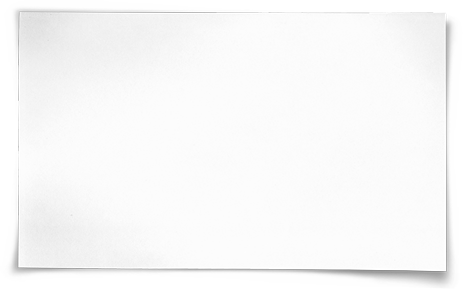
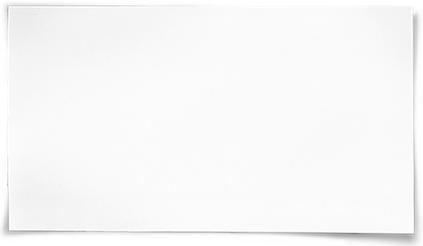
Adding white border to flyers.

Changed region(s): [[0.0, 0.0569, 1.0, 0.9959], [0.0, 0.0, 0.461, 0.1138]]

diff --git a/public/javascripts/bemtevi/template-canvas.js b/public/javascripts/bemtevi/template-canvas.js
@@ -55,7 +55,7 @@ function drawTemplateAndOverlays(template, templateContainer, canvasContainer) {
     var templateType = template.template_type;
     var width = templateType == "summary" ? 393 : 423;
     var height = templateType == "summary" ? 216 : 695;
-    var canvas = $('<canvas width="' + (width + 10) + '" height="' + (height + 10) + '" />');
+    var canvas = $('<canvas width="' + width + '" height="' + height + '" />');
     canvasContainer.append(canvas);
     var templateElementsContainer = $('<div class="template-elements-container">');
     canvasContainer.append(templateElementsContainer);
@@ -67,14 +67,7 @@ function drawTemplateAndOverlays(template, templateContainer, canvasContainer) {
 
     // Draws the template background over the canvas.
     var backgroundNode = $(templateContainer).find("[class|=template-background]")[0];
-    ctx.shadowColor = "#999";
-    ctx.shadowBlur = 5;
-    ctx.shadowOffsetX = 5;
-    ctx.shadowOffsetY = 5;
     ctx.drawImage(backgroundNode, 0, 0, backgroundNode.width, backgroundNode.height);
-    ctx.shadowBlur = 0;
-    ctx.shadowOffsetX = 0;
-    ctx.shadowOffsetY = 0;
 
     // Loops through the template overlays to draw tem over the background.
     var overlays = template.overlays;
@@ -92,7 +85,24 @@ function drawTemplateAndOverlays(template, templateContainer, canvasContainer) {
             drawImageOverlay(overlay, ctx, templateElementsContainer, template, templateContainer, canvasContainer);
         }
     }
-
+    
+    // Draws the flyer canvas over the withe leaf for the flyer.
+    var leaf = $(templateContainer).children("img")[0];
+    var finalCanvas = $('<canvas width="' + (width + 30) + '" height="' + (height + 30) + '" />');
+    canvasContainer.append(finalCanvas);
+    var finalCanvasNode = finalCanvas[0];
+    var finalCtx = finalCanvasNode.getContext("2d");
+    finalCtx.globalCompositeOperation = "source-over";
+    
+    // Draws the template background over the canvas.
+    var offX = templateType == "summary" ? 14 : 12;
+    var offY = templateType == "summary" ? 10 : 15;
+    var leafNode = $(templateContainer).children("img")[0];
+    finalCtx.drawImage(leafNode, 0, 0, leafNode.width, leafNode.height);
+    finalCtx.drawImage(canvasNode, offX, offY, canvasNode.width, canvasNode.height);
+    
+    // Remove the flyer, as we have the flyer over the white leaf now.
+    $(canvas).remove();
 }
 
 function drawImageOverlay(overlay, outCanvasContext, templateElementsContainer, template, templateContainer, canvasContainer) {

diff --git a/public/stylesheets/bemtevi/create-template.css b/public/stylesheets/bemtevi/create-template.css
@@ -12,12 +12,13 @@ div#content {
     width: 429px;
 }
 .template-container.detail {
-    background: url(/images/bemtevi/backgrounds/template-big.png) 0px 10px no-repeat;
+    background: url(/images/bemtevi/backgrounds/template-big.png) 10px 15px no-repeat;
     height: 725px;
-    background-size: 100% 100%;
+    background-size: 95% 98%;
 }
 .template-container.summary {
-    background: url(/images/bemtevi/backgrounds/template-small.png) no-repeat scroll 0 17px transparent;
+    background: url(/images/bemtevi/backgrounds/template-small.png) no-repeat scroll 10px 17px transparent;
+    background-size: 88% 93%;
     height: 260px;
     margin-bottom: 50px;
     margin-top: 144px;
